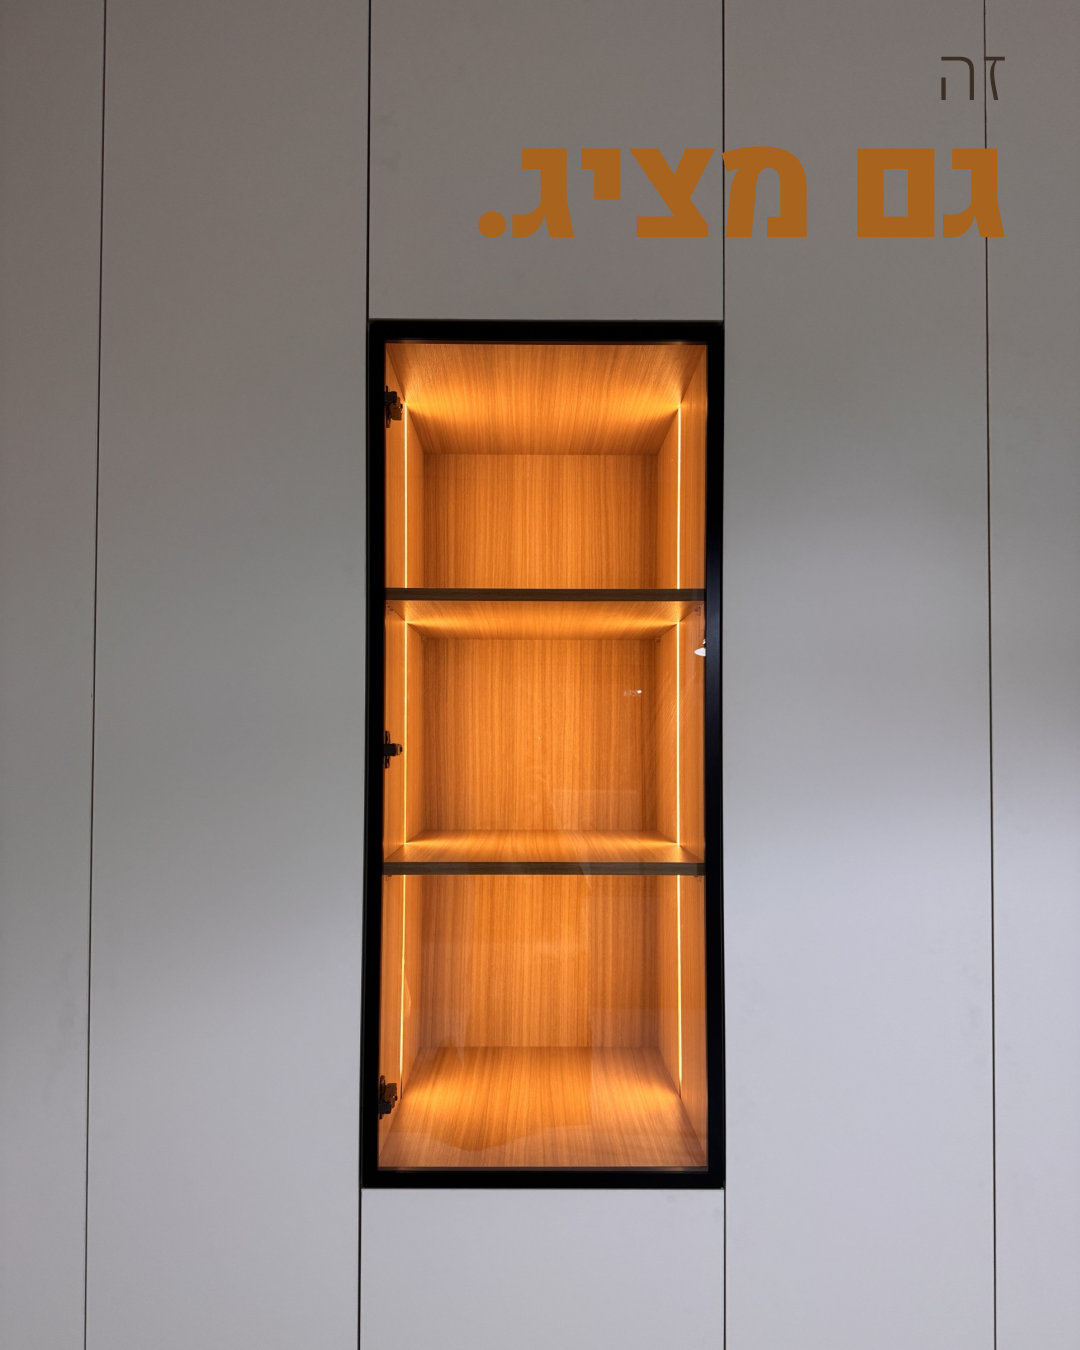
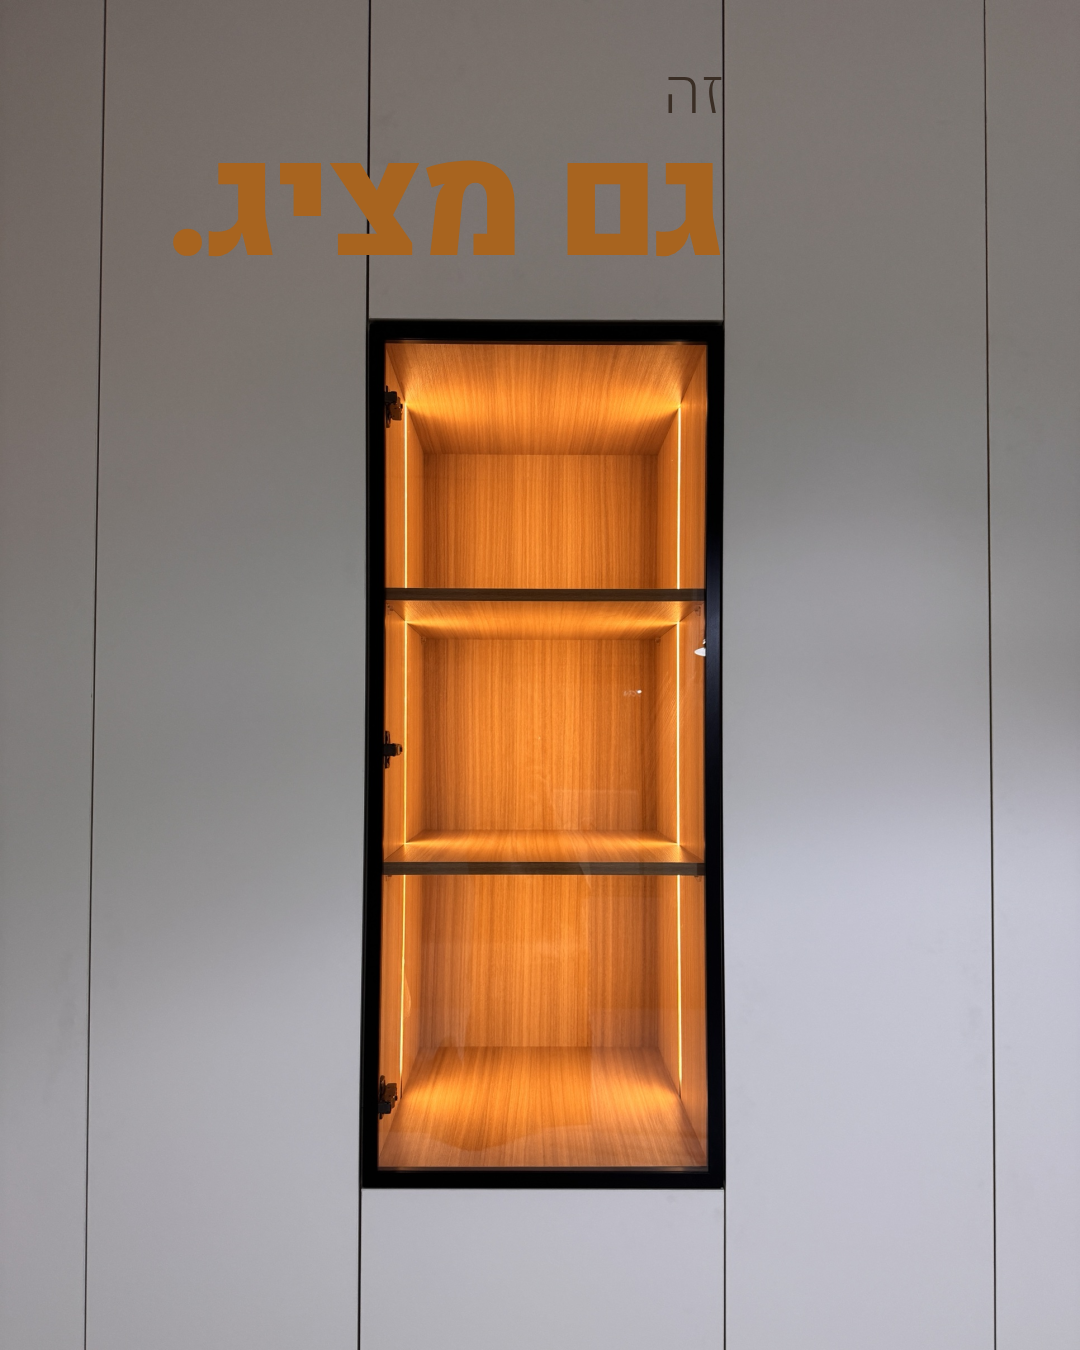
Glass niche closet: gate fixes, delivered, content-log #9
Claude-Session: https://claude.ai/code/session_017YHNgbEKqJ6X58ZTsYCdPZ

Changed region(s): [[0.1528, 0.0622, 0.7639, 0.1867], [0.7944, 0.0933, 0.9472, 0.1867], [0.8861, 0.0311, 0.9472, 0.0622]]

diff --git a/projects/2026-10-glass-niche-closet/carousel/slides.html b/projects/2026-10-glass-niche-closet/carousel/slides.html
@@ -15,8 +15,8 @@ body{width:1080px}
 .slide{width:1080px;height:1350px;position:relative;overflow:hidden;background:#d9d0c6}
 .full{position:absolute;inset:0;width:1080px;height:1350px}
 .h{position:absolute;right:72px;direction:rtl;text-align:right;color:var(--ink)}
-.h .a{display:block;font:300 72px/1.1 "Plex";letter-spacing:.005em;color:#3a2e25}
-.h .b{display:block;font:850 150px/1.0 "Heebo";letter-spacing:-.025em;margin-top:2px}
+.h .a{display:block;font:300 60px/1.15 "Plex";letter-spacing:.005em;color:#3a2e25}
+.h .b{display:block;font:850 156px/.98 "Heebo";letter-spacing:-.025em;margin-top:6px}
 .h .b em{font-style:normal;color:var(--oak)}
 .h .rule{display:block;width:84px;height:3px;background:var(--bronze);margin:0 0 20px auto}
 .end{background:radial-gradient(110% 80% at 50% 45%,#3b2617 0%,#1f140c 75%);display:flex;flex-direction:column;align-items:center;justify-content:center}
@@ -29,22 +29,22 @@ body{width:1080px}
 <body>
 <section class="slide" id="s1">
   <img class="full" src="p1.png" alt="" />
-  <div class="h" style="top:34px"><span class="a">רוב הארונות</span><span class="b">רק מסתירים.</span></div>
+  <div class="h" style="top:30px;right:130px"><span class="a">רוב הארונות</span><span class="b">רק <em>מסתירים.</em></span></div>
 </section>
 <section class="slide" id="s2">
   <img class="full" src="p2.png" alt="" />
-  <div class="h" style="top:34px"><span class="a">זה</span><span class="b"><em>גם מציג.</em></span></div>
+  <div class="h" style="top:56px;right:356px"><span class="a">זה</span><span class="b"><em>גם מציג.</em></span></div>
 </section>
 <section class="slide" id="s3">
   <img class="full" src="p3.png" alt="" />
-  <div class="h" style="top:18px"><span class="a" style="font-size:50px">ומה שמוסתר,</span><span class="b" style="font-size:90px">מתוכנן <em>באותה הקפדה.</em></span></div>
+  <div class="h" style="top:18px"><span class="a" style="font-size:38px">ומה שמוסתר,</span><span class="b" style="font-size:94px">מתוכנן באותה <em>הקפדה.</em></span></div>
 </section>
 <section class="slide" id="s4">
   <img class="full" src="p4.png" alt="" />
 </section>
 <section class="slide" id="s5">
   <img class="full" src="p5.png" alt="" />
-  <div class="h" style="bottom:70px"><span class="rule"></span><span class="a" style="font-size:48px">תכנון אישי מתחיל בשאלה אחת:</span><span class="b" style="font-size:116px;margin-top:10px">מה אתם רוצים<br /><em>לראות?</em></span></div>
+  <div class="h" style="bottom:70px"><span class="rule"></span><span class="a" style="font-size:46px">תכנון אישי מתחיל בשאלה אחת:</span><span class="b" style="font-size:116px;margin-top:8px">מה אתם רוצים<br /><em>לראות?</em></span></div>
 </section>
 <section class="slide end" id="s6">
   <div class="glow"></div>

diff --git a/projects/2026-10-glass-niche-closet/PROJECT.md b/projects/2026-10-glass-niche-closet/PROJECT.md
@@ -3,7 +3,7 @@
 **הבריף שלה (מילה במילה):** "ארון נגרות חדש גוון סהרה בעיצוב אישי עם נישה עץ אלון מוארת"
 
 **חומר:** 7 תמונות + קליפ 4 שנ' (גלישה בתוך הנישה המוארת). זוגות אמיתיים: 04 כבוי/05 דולק (אותה זווית), 05/07 סגור/פתוח (חזית), 03/02 נישה דולקת סגורה/כבויה פתוחה.
-**מצב:** חסכוני. ממתין לאישור כרטיס ההצעה.
+**מצב:** חסכוני. נמסר 13.10.
 
 ## הרעיון (כפי שאושר בכרטיס)
 - רילס: טיעון של נגר: התאמה לקיר ← אור במקום הנכון ← ניצול החלל ← תכנון אישי. "מהרצפה / עד התקרה." · "רק אור / במקום הנכון." · "ובפנים, / כל סנטימטר עובד." · "תוכנן / בשבילכם." · סיום: ייעוץ והדמיה ללא עלות. מהלך חתימה: המדפים בנישה נדלקים אחד-אחד על הביט; הדלתות נפתחות בגל סביב הנישה הדולקת.
@@ -24,7 +24,7 @@
 ארון שנמדד לקיר אחד: מהרצפה עד התקרה, בלי סנטימטר מבוזבז.
 חזיתות חלקות בגוון סהרה, נישת אלון מוארת באמצע, ובפנים מדפים, מגירות ומוט תלייה שיורד, כדי שגם הגובה יהיה נגיש.
 רוצים ארון שמתוכנן סביב הבית שלכם? שלחו לנו הודעה, ייעוץ והדמיה ללא עלות.
-#נגרותבהתאמהאישית #ארונותבהתאמהאישית #עיצובחדרשינה #ארוןקיר #אבןועץ
+#נגרותבהתאמהאישית #ארונותבהתאמהאישית #עיצובפנים #ארוןקיר #אבןועץ
 
 **רילס, פייסבוק:**
 כשמתכננים ארון מאפס, כל סנטימטר בקיר נכנס לעבודה.
@@ -40,7 +40,7 @@
 
 **פוסט, פייסבוק:**
 לפני מדפים ומידות, יש שאלה אחת: מה אתם רוצים שיראו?
-בחדר השינה הזה התשובה הייתה נישה אחת של עץ אלון, עם תאורה חמה ודלת זכוכית במסגרת שחורה. כל השאר נבלע בחזית חלקה בגוון סהרה, ומאחוריה אחסון מלא: מדפים, מגירות ומוט תלייה שיורד, כדי שגם החלק העליון של הארון יעבוד.
+בארון הזה התשובה הייתה נישה אחת של עץ אלון, עם תאורה חמה ודלת זכוכית במסגרת שחורה. כל השאר נבלע בחזית חלקה בגוון סהרה, ומאחוריה אחסון מלא: מדפים, מגירות ומוט תלייה שיורד, כדי שגם החלק העליון של הארון יעבוד.
 כל ארון שלנו נמדד ומתוכנן לבית שלו. רוצים לחשוב יחד על הקיר שלכם? כתבו לנו, ייעוץ והדמיה ללא עלות.
 
 **מוזיקה מומלצת:** פסנתר רך עם ביט עדין, כ-100 BPM (החיתוכים על גריד 0.6 שנ').
@@ -53,3 +53,4 @@
 - כרטיס 3: שקף 3 "ומה שמוסתר, / מתוכנן באותה הקפדה."; רילס "בלי ידיות. / בלי רעש." · "רק אור / במקום הנכון." · "ומאחורי השקט, / סדר." · "תוכנן / בשבילכם."
 - כרטיס 3 (13.10): "פחות אהבתי את השקט ורעש" → רילס 1 "מהרצפה / עד התקרה.", 4 "ובפנים, / כל סנטימטר עובד." (מושאר: "רק אור / במקום הנכון.", "תוכנן / בשבילכם."). מוט תלייה שיורד: מאושר.
 - **אושר** (13.10, "מאשרת"): הפוסט מכרטיס 2 + שקף 3 החדש; הרילס מכרטיס 4. הערה: "תעצב את הכיתוב בצורה יפה ומרשימה".
+- שער סופי (13.10): רילס APPROVE; פוסט RETURN קל (טיפוגרפיה מרשימה ואחידה, יישור לקווי העבודה; "חדר שינה" הוסר מהכיתובים). תוקן ונמסר. שקף 5: הכותרת על חזיתות חלקות חוצה מרווחים בין דלתות, אין אזור רגוע אחר בצילום.

diff --git a/knowledge/learning/content-log.md b/knowledge/learning/content-log.md
@@ -21,6 +21,8 @@
 
 | 8 | נגרות לכל הבית (4 ארונות + קיר TV) | פריים 0 ארון סגול בדחיפה, Hook "נכנסים / לבית / חדש?" ← **מהלך החתימה: "הידית העגולה עוברת בבית"** (Match cut ידית עץ ← ידית אפורה) ← פתיחת 4 דלתות אלון ב-rig ← Whip ← 2 דלתות לבנות, "מתוכנן / גם מבפנים." ← הבזק ← מדפים מוארים ← "נגרות / לכל הבית." | **מדריך שקט (סט 2) "חדר-חדר"**, נושא + תובנה לכל ארון, מבחוץ/בפנים, סיום שדה אלון + לוגו. פנייה: שקף סיום + כיתוב | רילס: חשיפה ופניות (תכנון לכל הבית). פוסט: פניות (פתרון לכל חדר) | ✅ נמסר |
 
+| 9 | ארון סהרה עם נישת אלון מוארת | פריים 0 ארון שלם כבוי, "מהרצפה / עד התקרה." ← **מהלך חתימה: המדפים בנישה נדלקים אחד-אחד על הביט** ← הבזק לנישה הקרובה "רק אור / במקום הנכון." ← צלילה לקליפ שלה ← 4 דלתות נפתחות בגל סביב נישה דולקת "ובפנים, / כל סנטימטר עובד." ← Whip לנישה עם פריטים "תוכנן / בשבילכם." ← ייעוץ והדמיה | **כותרת מפוצלת טיפוגרפית** (Plex Light + Heebo 850, דיו + אלון) "רוב הארונות / רק מסתירים." ← "זה / גם מציג." (חיתוך נישה), פתוח, שלם, זווית "מה אתם רוצים לראות?", סיום "נתכנן את שלכם." | רילס: חשיפה ופניות (התאמה וניצול חלל). פוסט: פניות (תכנון אישי) | ✅ נמסר |
+
 ## מונה סבבים אצלה (יעד: 0–1)
 | פרויקט | סבבים | הערה |
 |---|---|---|
@@ -31,3 +33,4 @@
 | סדרת קירות טלוויזיה | 1 (בכרטיס ההצעה: כיתוב הרילס על החברה, "רפפות") | נמסר אחרי שער משולב: תיקון אחד (הכרטיס השני ישב על המזנון ובאזור הכפתורים ← עבר לתקרה של הקיר הכהה) |
 | מותג כללי | 1 (v1 נבנה בלי הצעה בכתב: branch ישן) | v2: מעט פרויקטים → 5, רגע אור → ספרייה, תיקון עיוות בדלתות האגוז |
 | נגרות לכל הבית | 1 (בכרטיס: בלי מנורה) + הערה על צבע בטיוטה (P15) | grade.py שינה גוון; מעכשיו בודקים ΔE מול המקור |
+| ארון סהרה ונישה | 3 בכרטיס (כיתובים: "תחשוב עמוק יותר", "פחות שקט ורעש") | C5 נוסף; שער: טיפוגרפיה בפוסט חוזקה, "חדר שינה" הוסר מהכיתוב (לא נמסר) |
